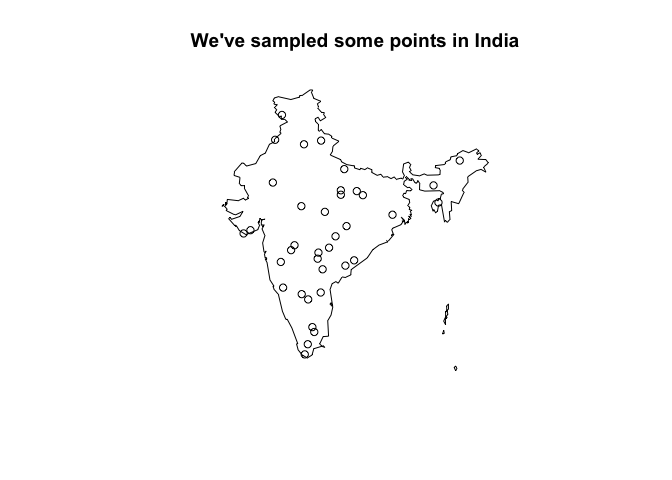
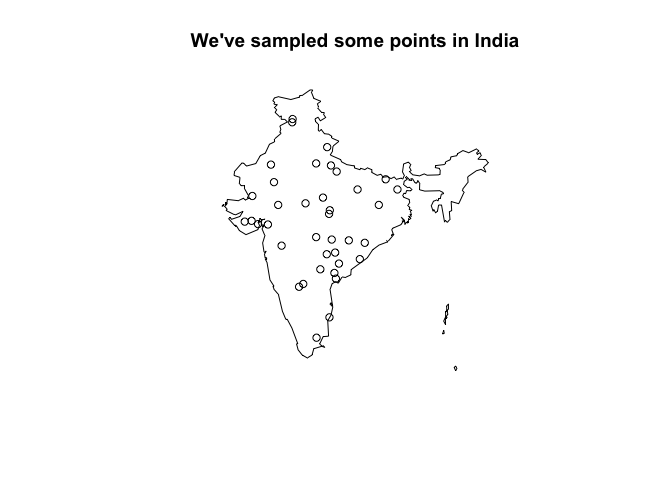
rmd link works now

diff --git a/_pages/teaching/map_demo.md b/_pages/teaching/map_demo.md
@@ -28,7 +28,7 @@ surface) for a couple of points/countries, here’s a short demonstration
 to get you started.
 
 Download this demo as an `.Rmd`
-[here](%22https://lu-harr.github.io/_pages/teaching/map_demo.Rmd%22)
+<here><https://lu-harr.github.io/_pages/teaching/map_demo.Rmd>
 
 ## Bring in packages
 
@@ -168,11 +168,10 @@ pfpr <- as.list(pfpr) %>%
 writeRaster(pfpr, "pfpr_rasters_ind.tif")
 ```
 
-``` r
-pfpr <- rast("pfpr_rasters_ind.tif")
-```
-
-Let’s make up some locations (in space and time) in India:
+If you’ve read this far, you’ve probably got some specific points in
+space/time that you would like to extract MAP raster values for. For our
+worked example, let’s make up some locations (in space and time) in
+India:
 
 ``` r
 pts <- terra::spatSample(pfpr[[1]], size = 100, method = "random", xy = TRUE)
@@ -186,12 +185,12 @@ head(pts)
 ```
 
     ##           x        y year
-    ## 2  79.47917 23.02083 2021
-    ## 5  86.89583 22.72917 2017
-    ## 6  77.18750 29.93750 2022
-    ## 11 91.93750 23.97917 2018
-    ## 15 91.39583 25.72917 2019
-    ## 17 77.64583 14.06250 2021
+    ## 1  80.22917 20.18750 2016
+    ## 5  72.14583 21.77083 2022
+    ## 8  80.14583 27.77083 2021
+    ## 9  79.97917 12.22917 2015
+    ## 11 71.43750 22.10417 2017
+    ## 13 80.52083 16.77083 2015
 
 ``` r
 ind_shp %>%
@@ -237,7 +236,13 @@ df <- do.call(rbind, lapply(pfpr_years, function(yr){extract_pfpr(pfpr, pts, yr)
 write.csv(pts, "pts_with_pfpr.csv", row.names = FALSE)
 ```
 
-## Have a look at what we’ve grabbed
+## Have a look at what we’ve extracted
+
+``` r
+hist(df$median, main = "PfPR extracted")
+```
+
+![](map_demo_files/figure-gfm/unnamed-chunk-5-1.png)<!-- -->
 
 ``` r
 ind_shp %>%
@@ -248,7 +253,7 @@ ind_shp %>%
 points(df$x, df$y, col = viridis(10)[cut(log10(df$median), breaks=10)], pch=16)
 ```
 
-![](map_demo_files/figure-gfm/unnamed-chunk-5-1.png)<!-- -->
+![](map_demo_files/figure-gfm/unnamed-chunk-5-2.png)<!-- -->
 
 ``` r
 # i should really put a scale here but that's all for now!
